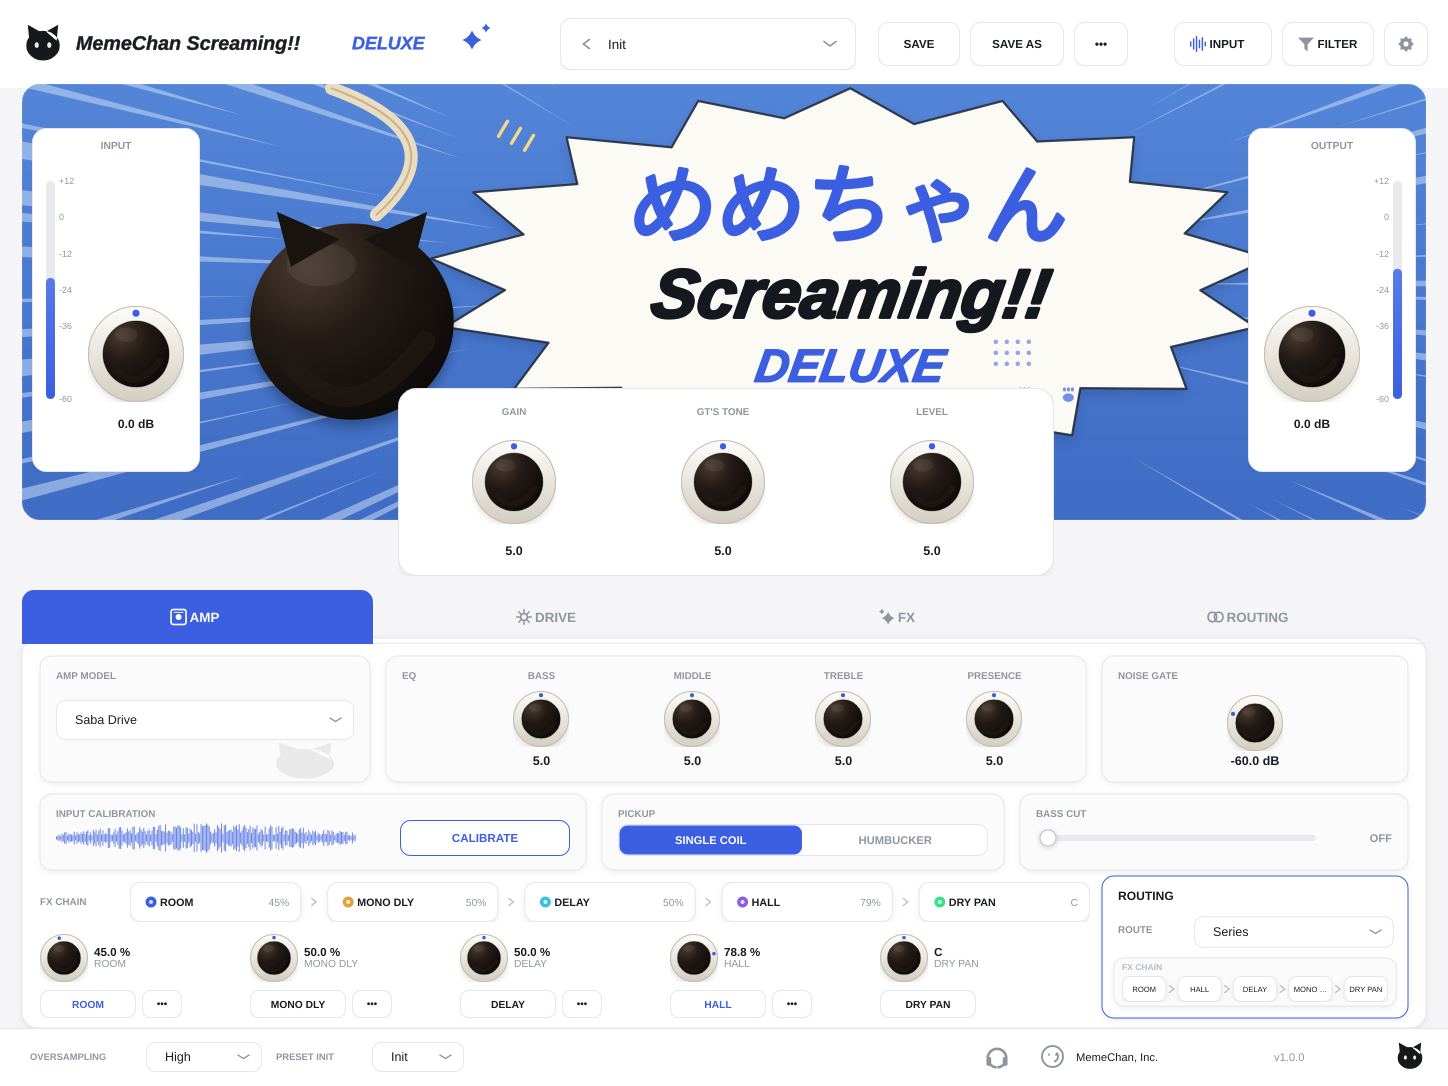
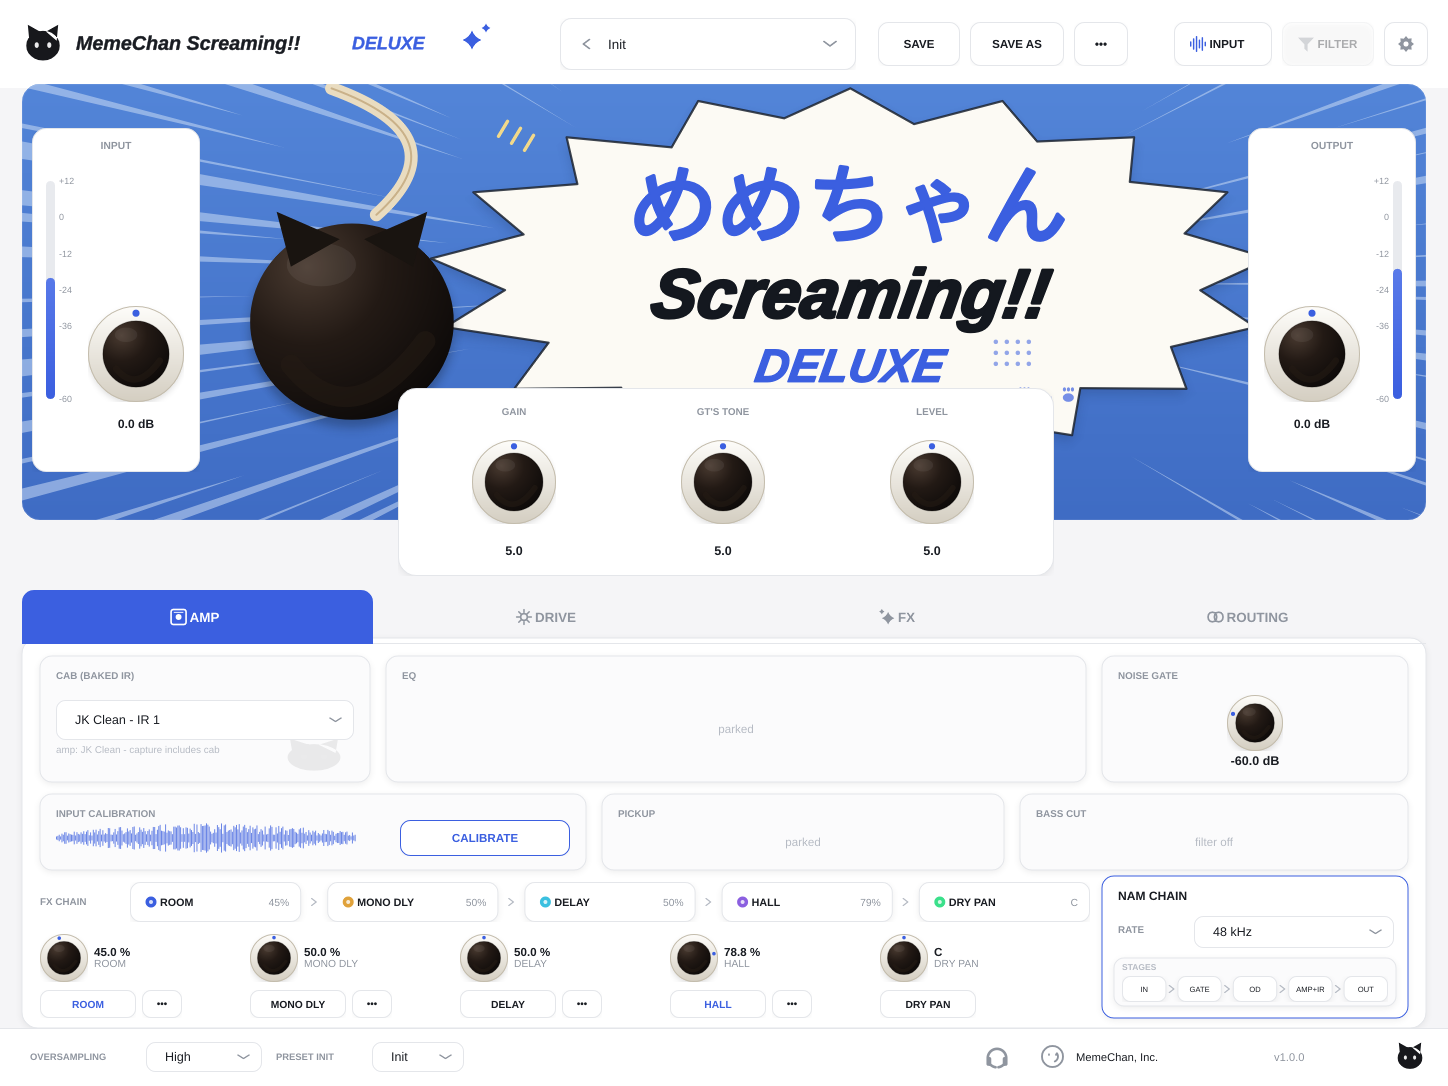
MemeChanUI: Rework the chain for two NAM models with the cab baked in
The signal path is now OD capture into an amp capture that already
contains the cab, so the separate convolution stage is gone.

- AMP tab selects among six captures that differ only in the baked cab,
  so the selector is a cab list rather than an amp list
- DRIVE tab drives the OD capture; drive and tone are fixed by the
  capture, so only level, mix and the OD-to-amp trim stay live
- EQ, pickup and bass cut are parked rather than deleted, and the header
  filter button is disabled
- ROUTING tab manages the two models instead of loading an IR

Adds PagePanel::addBlankCard/addNote, dims disabled buttons, and stops
knob rows stretching when a card holds fewer than four knobs.

Model names are placeholders until the real .nam filenames are known.

Claude-Session: https://claude.ai/code/session_0138MG23CpU4iP5vUzEUv7tL

diff --git a/MemeChanUI/Source/Pages.cpp b/MemeChanUI/Source/Pages.cpp
@@ -73,8 +73,9 @@ void PagePanel::addKnobRow (juce::Rectangle<int> card, juce::String title,
 {
     addCard (card, title);
 
+    // columns keep a sane width when a card holds fewer than four knobs
     auto area = card.reduced (16, 0).withTrimmedLeft (64);
-    const auto colW = area.getWidth() / juce::jmax (1, names.size());
+    const auto colW = juce::jmin (160, area.getWidth() / juce::jmax (1, names.size()));
 
     for (int i = 0; i < names.size(); ++i)
         own (std::make_unique<LabelledKnob> (names[i], juce::Range<double> (0.0, 10.0),
@@ -128,6 +129,20 @@ void PagePanel::addWaveButton (juce::Rectangle<int> card, juce::String title,
 
     own (std::make_unique<FlatButton> (buttonText, FlatButton::Style::outlined),
          { card.getX() + 360, card.getY() + 26, 170, 36 });
+}
+
+void PagePanel::addBlankCard (juce::Rectangle<int> card, juce::String title, juce::String note)
+{
+    addCard (card, title);
+
+    texts.push_back ({ card.withTrimmedTop (20), note, 13.0f, false, colours::textTertiary,
+                       juce::Justification::centred });
+}
+
+void PagePanel::addNote (juce::Rectangle<int> area, juce::String text, float size)
+{
+    texts.push_back ({ area, text, size, false, colours::textTertiary,
+                       juce::Justification::centredLeft });
 }
 
 //==============================================================================
@@ -212,23 +227,32 @@ void PagePanel::paint (juce::Graphics& g)
 }
 
 //==============================================================================
+/*  The six amp captures share one amp and differ only in the cabinet baked
+    into them, so the selector is a cab list, not an amp list. Names are
+    placeholders until the real .nam filenames are known. */
+static juce::StringArray cabCaptures()
+{
+    return { "JK Clean - IR 1", "JK Clean - IR 2", "JK Clean - IR 3",
+             "JK Clean - IR 4", "JK Clean - IR 5", "JK Clean - IR 6" };
+}
+
 std::unique_ptr<PagePanel> createAmpPage()
 {
     auto p = std::make_unique<PagePanel>();
 
-    p->addCombo (PagePanel::row1 (0), "AMP MODEL",
-                 { "Saba Drive", "Katsuo Clean", "Maguro Lead", "Niboshi Crunch" }, 0);
-    p->addCatWatermark ({ 250, 104, 66, 38 });
+    // amp is fixed; the six captures differ only in the cab baked into them
+    p->addCombo (PagePanel::row1 (0), "CAB (BAKED IR)", cabCaptures(), 0);
+    p->addNote  ({ 34, 104, 300, 16 }, "amp: JK Clean - capture includes cab");
+    p->addCatWatermark ({ 262, 100, 60, 34 });
 
-    p->addKnobRow (PagePanel::row1 (1), "EQ",
-                   { "BASS", "MIDDLE", "TREBLE", "PRESENCE" }, { 5.0, 5.0, 5.0, 5.0 });
+    p->addBlankCard (PagePanel::row1 (1), "EQ", "parked");
 
     p->addBigKnob (PagePanel::row1 (2), "NOISE GATE", -60.0, { -80.0, 0.0 },
                    [] (double v) { return juce::String (v, 1) + " dB"; });
 
     p->addWaveButton (PagePanel::row2 (0), "INPUT CALIBRATION", "CALIBRATE");
-    p->addSegmented  (PagePanel::row2 (1), "PICKUP", { "SINGLE COIL", "HUMBUCKER" }, 0);
-    p->addSlider     (PagePanel::row2 (2), "BASS CUT", 0.0, 200.0, "OFF");
+    p->addBlankCard  (PagePanel::row2 (1), "PICKUP", "parked");
+    p->addBlankCard  (PagePanel::row2 (2), "BASS CUT", "filter off");
 
     p->addFxSection ("FX CHAIN",
                      { { "ROOM",     "45%", fxDots[0] },
@@ -242,8 +266,8 @@ std::unique_ptr<PagePanel> createAmpPage()
                        { "HALL",     "78.8 %", 0.788, true  },
                        { "DRY PAN",  "C",      0.50,  false } });
 
-    p->addSideBox ("ROUTING", "ROUTE", { "Series", "Parallel" }, 0, "FX CHAIN",
-                   { "ROOM", "HALL", "DELAY", "MONO DLY", "DRY PAN" });
+    p->addSideBox ("NAM CHAIN", "RATE", { "48 kHz", "44.1 kHz" }, 0, "STAGES",
+                   { "IN", "GATE", "OD", "AMP+IR", "OUT" });
     return p;
 }
 
@@ -251,34 +275,36 @@ std::unique_ptr<PagePanel> createDrivePage()
 {
     auto p = std::make_unique<PagePanel>();
 
-    p->addCombo (PagePanel::row1 (0), "PEDAL MODEL",
-                 { "Saba Screamer", "Katsuo Fuzz", "Niboshi Boost", "Maguro OD" }, 0);
-    p->addCatWatermark ({ 250, 104, 66, 38 });
+    p->addCombo (PagePanel::row1 (0), "OD MODEL", { "OD_MIKE" }, 0);
+    p->addNote  ({ 34, 104, 300, 16 }, "runs into the amp capture");
+    p->addCatWatermark ({ 262, 100, 60, 34 });
 
-    p->addKnobRow (PagePanel::row1 (1), "PEDAL",
-                   { "DRIVE", "TONE", "LEVEL", "MIX" }, { 6.5, 5.0, 5.5, 10.0 });
+    // DRIVE and TONE are baked into the capture, so only the levels are live
+    p->addKnobRow (PagePanel::row1 (1), "OD", { "LEVEL", "MIX" }, { 5.5, 10.0 });
+    p->addNote    ({ 800, 30, 250, 16 }, "drive / tone fixed by the capture");
 
-    p->addBigKnob (PagePanel::row1 (2), "CLEAN BOOST", 3.0, { 0.0, 12.0 },
-                   [] (double v) { return "+" + juce::String (v, 1) + " dB"; });
+    p->addBigKnob (PagePanel::row1 (2),
+                   juce::String::fromUTF8 ("OD \xe2\x86\x92 AMP"), 0.0, { -12.0, 12.0 },
+                   [] (double v) { return (v >= 0.0 ? "+" : "") + juce::String (v, 1) + " dB"; });
 
-    p->addSegmented (PagePanel::row2 (0), "PLACEMENT", { "BEFORE AMP", "AFTER AMP" }, 0);
-    p->addSegmented (PagePanel::row2 (1), "PEDAL POWER", { "9V", "18V" }, 0);
-    p->addSlider    (PagePanel::row2 (2), "LOW CUT", 80.0, 300.0, "80 Hz");
+    p->addSegmented (PagePanel::row2 (0), "OD STAGE", { "ON", "BYPASS" }, 0);
+    p->addBlankCard (PagePanel::row2 (1), "DRIVE", "baked into capture");
+    p->addBlankCard (PagePanel::row2 (2), "TONE",  "baked into capture");
 
     p->addFxSection ("STACK",
-                     { { "SCREAMER", "65%",   fxDots[0] },
-                       { "BOOST",    "30%",   fxDots[1] },
-                       { "GATE",     "-60dB", fxDots[2] },
-                       { "NAM",      "ON",    fxDots[3] },
-                       { "IR",       "ON",    fxDots[4] } },
-                     { { "DRIVE", "65.0 %",  0.65, true  },
-                       { "TONE",  "50.0 %",  0.50, false },
-                       { "LEVEL", "55.0 %",  0.55, false },
-                       { "MIX",   "100.0 %", 1.00, true  },
-                       { "BOOST", "30.0 %",  0.30, true  } });
+                     { { "IN",     "0dB",   fxDots[0] },
+                       { "GATE",   "-60dB", fxDots[1] },
+                       { "OD",     "ON",    fxDots[2] },
+                       { "AMP+IR", "IR 1",  fxDots[3] },
+                       { "OUT",    "0dB",   fxDots[4] } },
+                     { { "OD LEVEL", "55.0 %",  0.55, true  },
+                       { "OD MIX",   "100.0 %", 1.00, true  },
+                       { "STAGE",    "0.0 dB",  0.50, true  },
+                       { "GATE",     "-60 dB",  0.25, false },
+                       { "OUT",      "0.0 dB",  0.50, false } });
 
-    p->addSideBox ("ANTI-ALIAS", "MODE", { "2x", "4x", "8x" }, 1, "STAGE",
-                   { "PEDAL", "BOOST", "AMP", "IR", "OUT" });
+    p->addSideBox ("OD MODEL", "RATE", { "48 kHz", "44.1 kHz" }, 0, "LOADED",
+                   { "OD_MIKE", "48kHz", "READY" });
     return p;
 }
 
@@ -321,33 +347,34 @@ std::unique_ptr<PagePanel> createRoutingPage()
 {
     auto p = std::make_unique<PagePanel>();
 
-    p->addCombo (PagePanel::row1 (0), "ROUTE MODE",
-                 { "Series", "Parallel", "Split" }, 0);
-    p->addCatWatermark ({ 250, 104, 66, 38 });
+    p->addCombo (PagePanel::row1 (0), "MODEL FOLDER", { "JK_clean" }, 0);
+    p->addNote  ({ 34, 104, 300, 16 }, "OD_MIKE + 6 cab captures");
+    p->addCatWatermark ({ 262, 100, 60, 34 });
 
-    p->addKnobRow (PagePanel::row1 (1), "BALANCE",
-                   { "A/B MIX", "WIDTH", "DRY", "WET" }, { 5.0, 5.0, 0.0, 10.0 });
+    p->addKnobRow (PagePanel::row1 (1), "LEVELS",
+                   { "IN", "OD", "AMP", "OUT" }, { 5.0, 5.5, 5.0, 5.0 });
 
     p->addBigKnob (PagePanel::row1 (2), "OUTPUT", 0.0, { -24.0, 24.0 },
                    [] (double v) { return juce::String (v, 1) + " dB"; });
 
-    p->addWaveButton (PagePanel::row2 (0), "IR FILE", "LOAD IR");
-    p->addSegmented  (PagePanel::row2 (1), "IR SLOT", { "A", "B" }, 0);
-    p->addSlider     (PagePanel::row2 (2), "IR LENGTH", 1024.0, 4096.0, "1024");
+    p->addWaveButton (PagePanel::row2 (0), "CAPTURE SET", "RELOAD");
+    p->addSegmented  (PagePanel::row2 (1), "OD STAGE", { "ON", "BYPASS" }, 0);
+    // no separate convolution stage any more - the cab lives in the capture
+    p->addBlankCard  (PagePanel::row2 (2), "IR LOADER", "baked into capture");
 
     p->addFxSection ("SIGNAL",
-                     { { "PEDAL", "ON",     fxDots[0] },
-                       { "NAM",   "48kHz",  fxDots[1] },
-                       { "EQ",    "ON",     fxDots[2] },
-                       { "IR",    "A",      fxDots[3] },
-                       { "FX",    "79%",    fxDots[4] } },
-                     { { "PEDAL", "65.0 %",  0.65, true  },
-                       { "NAM",   "100.0 %", 1.00, true  },
-                       { "EQ",    "50.0 %",  0.50, false },
-                       { "IR",    "100.0 %", 1.00, true  },
-                       { "FX",    "78.8 %",  0.788, false } });
+                     { { "IN",     "0dB",   fxDots[0] },
+                       { "GATE",   "-60dB", fxDots[1] },
+                       { "OD",     "MIKE",  fxDots[2] },
+                       { "AMP+IR", "IR 1",  fxDots[3] },
+                       { "FX",     "79%",   fxDots[4] } },
+                     { { "IN",     "0.0 dB",  0.50, false },
+                       { "OD",     "ON",      0.55, true  },
+                       { "AMP+IR", "IR 1",    1.00, true  },
+                       { "FX",     "78.8 %",  0.788, false },
+                       { "OUT",    "0.0 dB",  0.50, false } });
 
-    p->addSideBox ("NAM MODEL", "RATE", { "48 kHz", "44.1 kHz" }, 0, "STATUS",
-                   { "LOADED", "48kHz", "RESAMP", "IR A", "READY" });
+    p->addSideBox ("NAM MODELS", "RATE", { "48 kHz", "44.1 kHz" }, 0, "CHAIN",
+                   { "OD_MIKE", "48kHz", "JK CLEAN", "IR 1", "READY" });
     return p;
 }

diff --git a/MemeChanUI/Source/Widgets.cpp b/MemeChanUI/Source/Widgets.cpp
@@ -286,6 +286,13 @@ void FlatButton::paintButton (juce::Graphics& g, bool highlighted, bool)
         case Style::accentText: bg = colours::cardBg;    border = colours::cardBorder; fg = colours::accent;       break;
     }
 
+    if (! isEnabled())
+    {
+        bg     = bg.withMultipliedAlpha (0.45f);
+        border = border.withMultipliedAlpha (0.35f);
+        fg     = fg.withMultipliedAlpha (0.35f);
+    }
+
     const auto inked = currentSkin() == Skin::comic;
     b = b.reduced (inked ? strokeWidth() * 0.5f : 0.0f);
 
@@ -314,7 +321,8 @@ void FlatButton::paintButton (juce::Graphics& g, bool highlighted, bool)
         auto iconArea = hasText ? content.removeFromLeft (iconSize + 7.0f)
                                          .withSizeKeepingCentre (iconSize, iconSize)
                                 : b.withSizeKeepingCentre (iconSize, iconSize);
-        g.setColour (style == Style::filled ? juce::Colours::white : iconColour);
+        auto ic = style == Style::filled ? juce::Colours::white : iconColour;
+        g.setColour (isEnabled() ? ic : ic.withMultipliedAlpha (0.35f));
         g.fillPath (iconFn (iconArea));
     }
 

diff --git a/MemeChanUI/Source/Pages.h b/MemeChanUI/Source/Pages.h
@@ -33,6 +33,15 @@ public:
     void            addWaveButton(juce::Rectangle<int> card, juce::String title,
                                   juce::String buttonText);
 
+    /** Card with its controls deliberately left out, for a section that is
+        parked rather than removed. */
+    void            addBlankCard (juce::Rectangle<int> card, juce::String title,
+                                  juce::String note);
+
+    /** Free-standing caption, e.g. a note under a control. */
+    void            addNote      (juce::Rectangle<int> area, juce::String text,
+                                  float size = 11.0f);
+
     //== the shared lower half ================================================
     void addFxSection (juce::String caption, std::vector<FxChainStrip::Item> chain,
                        std::vector<FxCellSpec> cells);

diff --git a/MemeChanUI/Source/MemeChanEditor.cpp b/MemeChanUI/Source/MemeChanEditor.cpp
@@ -194,6 +194,9 @@ MemeChanEditor::MemeChanEditor()
     filterButton.setIconColour (colours::textSecondary);
     gearButton  .setIconColour (colours::textSecondary);
 
+    // parked for now, along with the EQ and pickup sections
+    filterButton.setEnabled (false);
+
     inputCard     = std::make_unique<IOCard> ("INPUT",  true);
     outputCard    = std::make_unique<IOCard> ("OUTPUT", false);
     heroKnobPanel = std::make_unique<HeroKnobPanel>();
